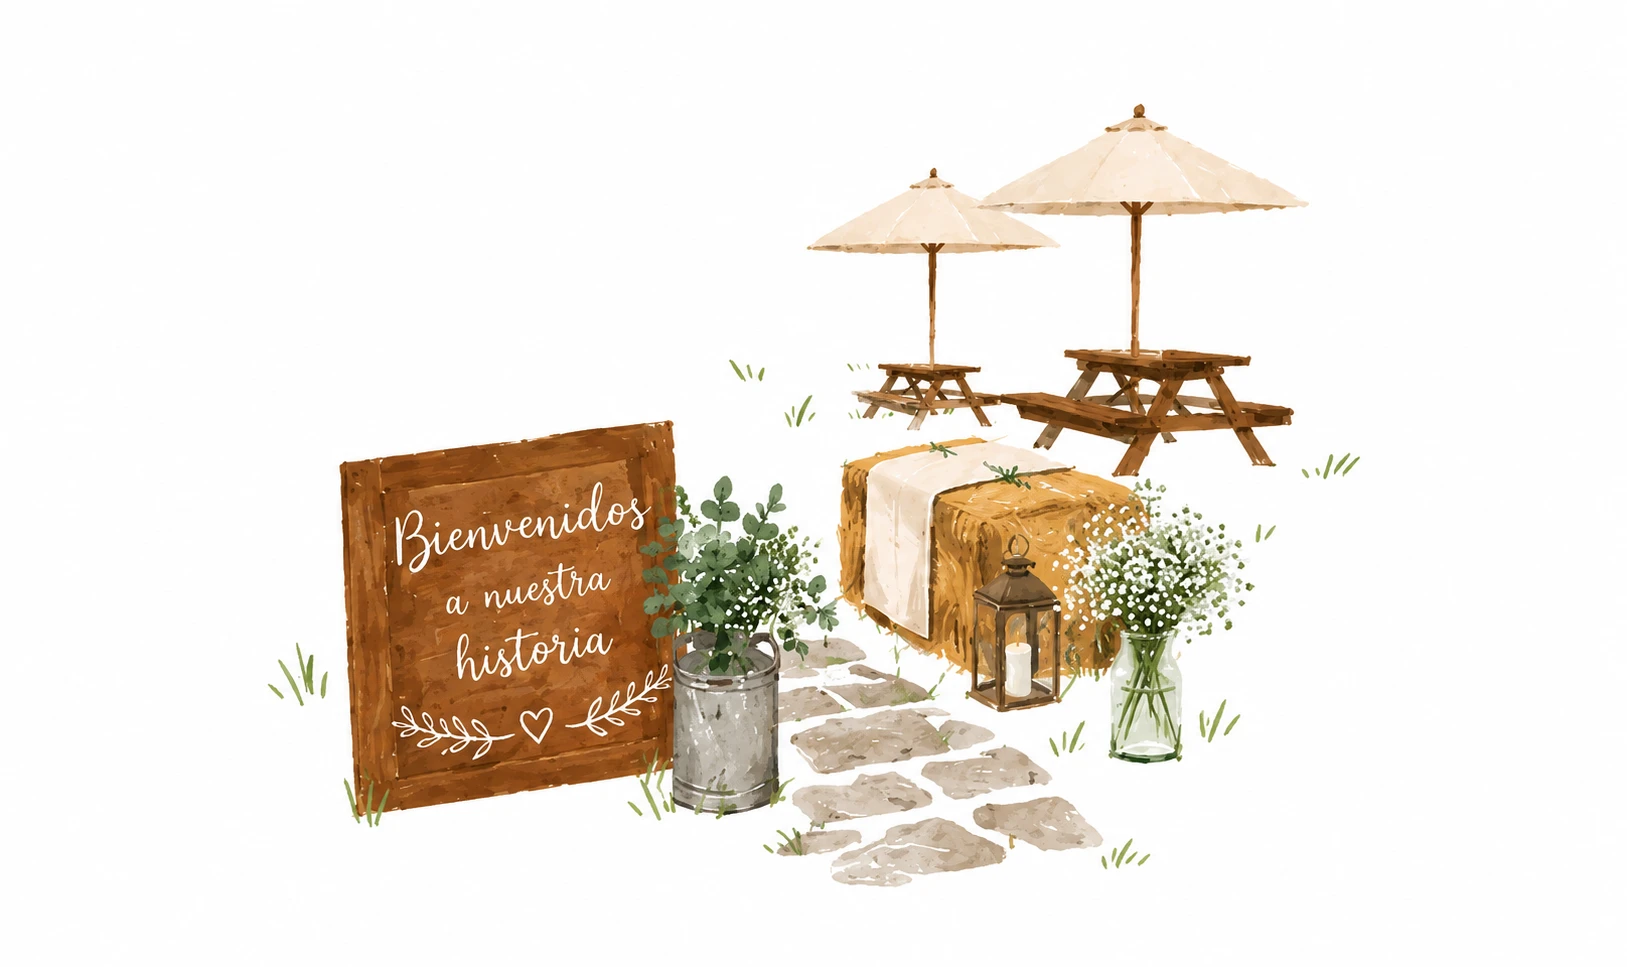
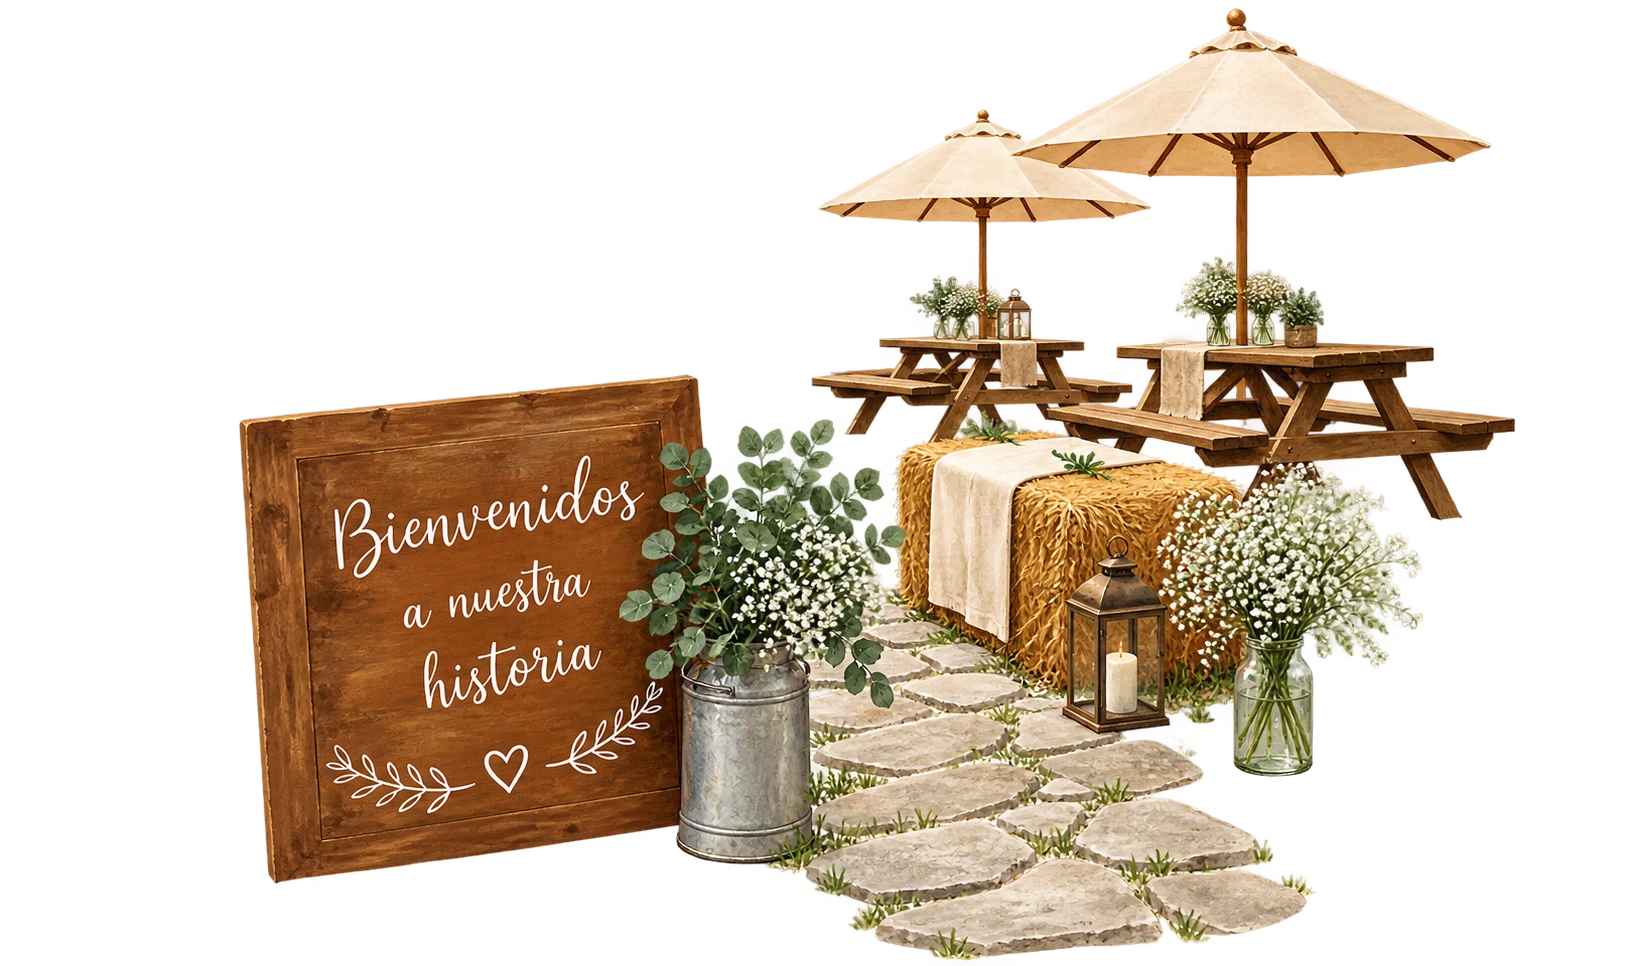
Repite el marco floral en toda la invitación, incluida la portada
- Reemplaza el borde de hojas (side-leaves) por el marco floral con
  faroles como patrón repetido (background-repeat) en portada, sección
  inicial, ceremonia/recepción, dress code, acciones y cierre.
- Quita los adornos .cover-decor sueltos, ya redundantes con el nuevo
  fondo repetido de la portada.
- Reemplaza la ilustración de bienvenida por la versión recortada (sin
  fondo blanco) para que se integre mejor sobre el patrón floral.

diff --git a/css/style.css b/css/style.css
@@ -50,23 +50,10 @@ img, svg { display: block; max-width: 100%; }
   align-items: center;
   justify-content: center;
   overflow: hidden;
-  background: var(--cream);
+  background: var(--cream) url("../images/floral-frame-lanterns.jpg") repeat left top / 380px auto;
   transition: opacity .9s ease, visibility .9s ease;
 }
 .cover.hidden { opacity: 0; visibility: hidden; pointer-events: none; }
-
-.cover-decor {
-  position: absolute;
-  width: 220px;
-  height: 220px;
-  opacity: .9;
-  background-repeat: no-repeat;
-  background-size: contain;
-  pointer-events: none;
-  background-image: var(--leaf-corner-img);
-}
-.cover-decor.tl { top: -20px; left: -20px; }
-.cover-decor.br { bottom: -20px; right: -20px; transform: rotate(180deg); }
 
 .cover-names {
   font-family: var(--script);
@@ -145,8 +132,7 @@ img, svg { display: block; max-width: 100%; }
 .story {
   position: relative;
   z-index: 1;
-  background: var(--cream) url("../images/side-leaves.jpg") repeat-y left top / 110px auto;
-  background-blend-mode: multiply;
+  background: var(--cream) url("../images/floral-frame-lanterns.jpg") repeat left top / 380px auto;
 }
 
 .panel {
@@ -166,12 +152,6 @@ img, svg { display: block; max-width: 100%; }
   margin-bottom: 22px;
 }
 
-.floral-frame {
-  background-image: url("../images/floral-frame-lanterns.jpg");
-  background-size: cover;
-  background-position: center top;
-  background-repeat: no-repeat;
-}
 .floral-frame .intro-panel { padding-top: 110px; padding-bottom: 30px; }
 .floral-frame .mono-panel { padding-top: 20px; padding-bottom: 20px; }
 .floral-frame .names-panel { padding-top: 20px; padding-bottom: 110px; }
@@ -238,11 +218,11 @@ img, svg { display: block; max-width: 100%; }
 }
 
 .event-panel {
-  background: var(--paper) url("../images/side-leaves.jpg") repeat-y left top / 110px auto;
+  background: var(--paper) url("../images/floral-frame-lanterns.jpg") repeat left top / 380px auto;
   background-blend-mode: multiply;
   border-radius: 2px;
 }
-.event-panel.alt { background: var(--cream) url("../images/side-leaves.jpg") repeat-y left top / 110px auto; background-blend-mode: multiply; }
+.event-panel.alt { background: var(--cream) url("../images/floral-frame-lanterns.jpg") repeat left top / 380px auto; background-blend-mode: multiply; }
 .event-time {
   display: inline-block;
   font-family: var(--sans);
@@ -299,7 +279,6 @@ img, svg { display: block; max-width: 100%; }
   width: 100%;
   max-width: 480px;
   margin: 0 auto;
-  border-radius: 4px;
 }
 
 .section-heading {
@@ -413,7 +392,7 @@ img, svg { display: block; max-width: 100%; }
 
 .closing-panel {
   padding: 100px 28px 70px;
-  background: var(--sage-900) url("../images/side-leaves.jpg") repeat-y left top / 110px auto;
+  background: var(--sage-900) url("../images/floral-frame-lanterns.jpg") repeat left top / 380px auto;
   background-blend-mode: multiply;
   color: var(--cream-2);
 }

diff --git a/index.html b/index.html
@@ -18,9 +18,6 @@
 
 <!-- ===================== COVER / SOBRE ===================== -->
 <div class="cover" id="cover">
-  <div class="cover-decor tl" aria-hidden="true"></div>
-  <div class="cover-decor br" aria-hidden="true"></div>
-
   <p class="cover-names">Camila &amp; Sebastián</p>
   <p class="cover-date">14 · Noviembre · 2026</p>
 
